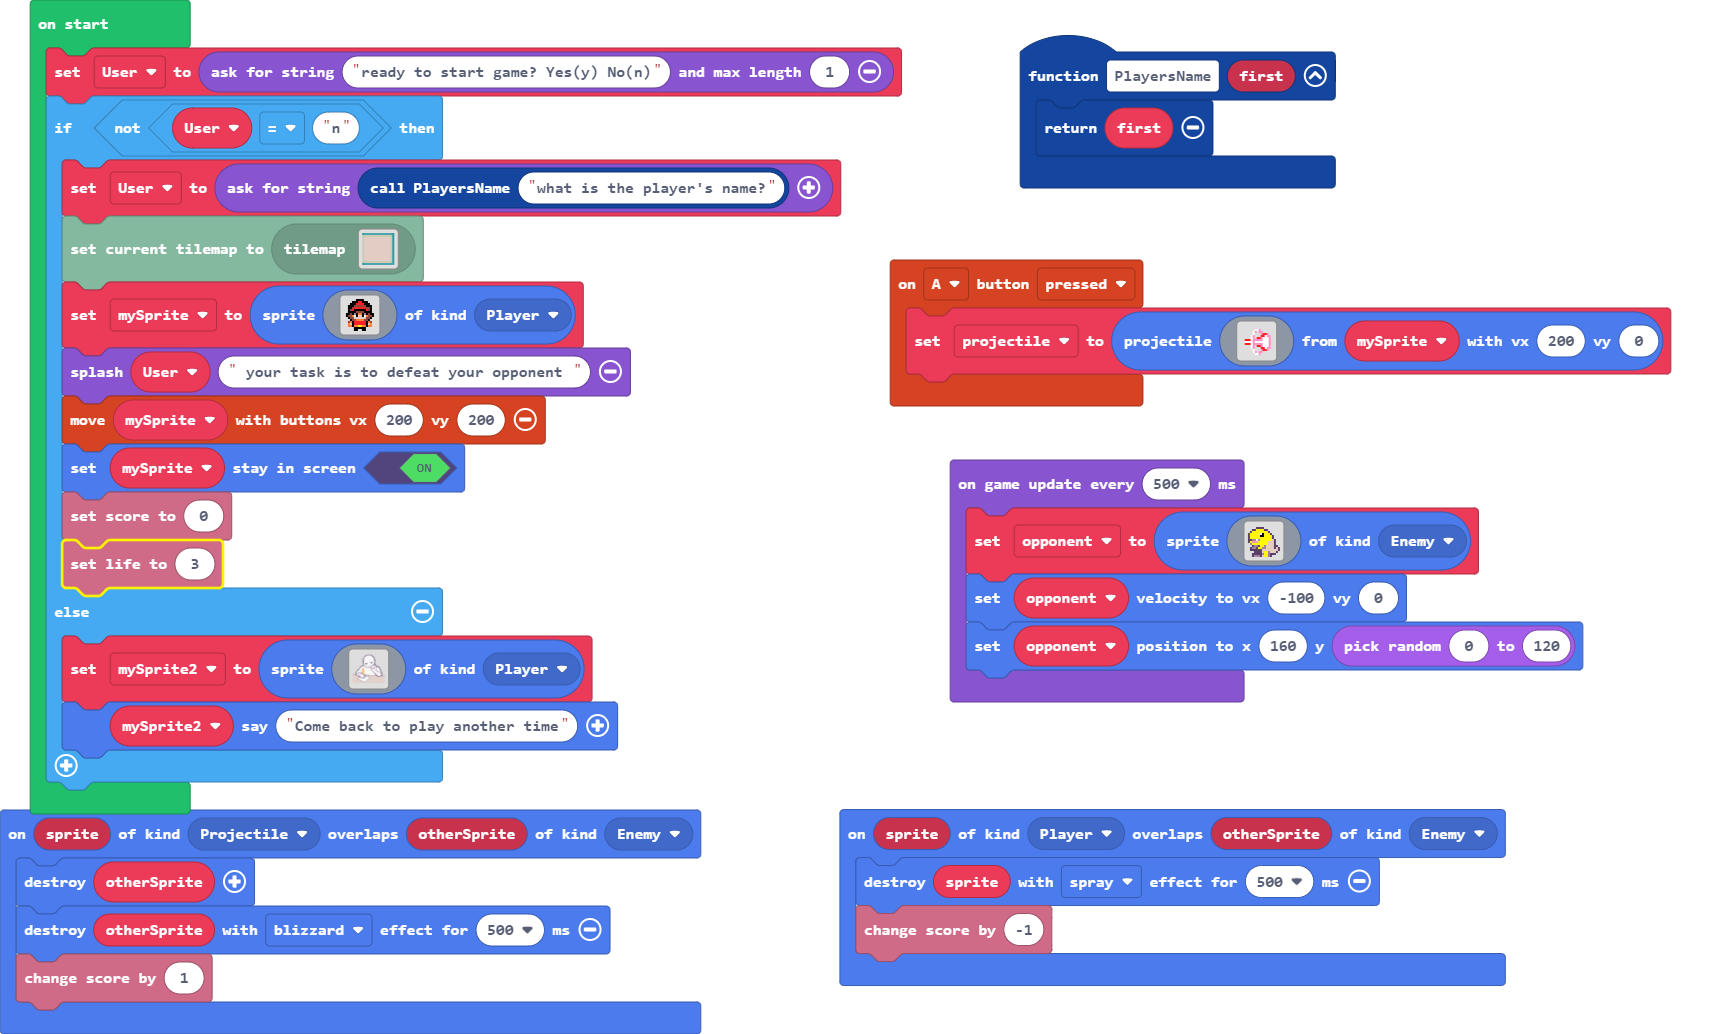
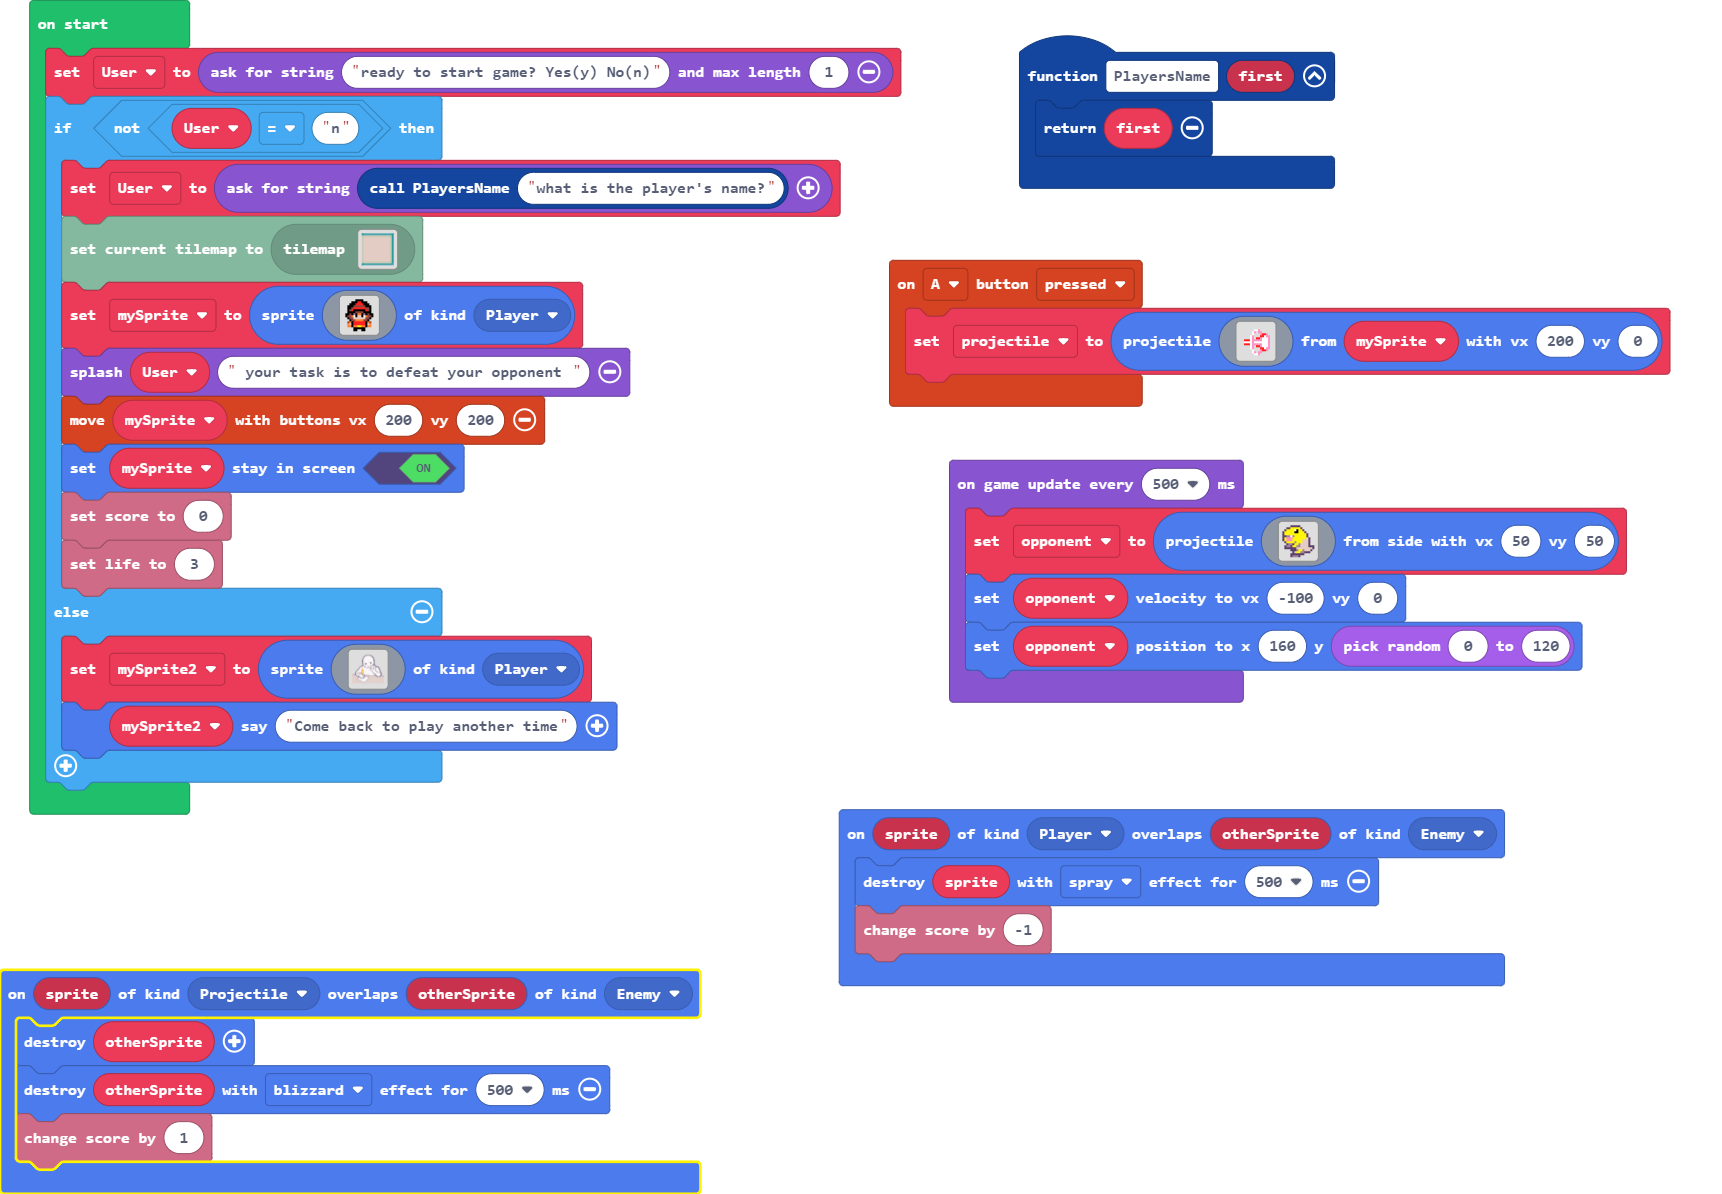
Update main.blocks, main.ts

diff --git a/main.ts b/main.ts
@@ -122,24 +122,24 @@ if (!(User == "n")) {
     mySprite2.sayText("Come back to play another time")
 }
 game.onUpdateInterval(500, function () {
-    opponent = sprites.create(img`
-        . . . . . . . . . . . . . . . . 
-        . . . . c c c c . . . . . . . . 
-        . . c c 5 5 5 5 c c . . . . . . 
-        . c 5 5 5 5 5 5 5 5 c . . . . . 
-        c 5 5 5 5 5 1 f 5 5 5 c . . . . 
-        c 5 5 5 5 5 f f 5 5 5 5 c . . . 
+    opponent = sprites.createProjectileFromSide(img`
+        . . . . c c c c c . . . . . . . 
+        . . c c 5 5 5 5 5 c . . . . . . 
+        . c 5 5 5 5 1 f 5 5 c . . . . . 
+        c 5 5 5 5 5 f f 5 5 5 c . . . . 
         c 5 5 5 5 5 5 5 5 5 5 5 c . . . 
-        c c b b 1 b 5 5 5 5 5 5 d c . . 
+        c c b b 1 b 5 5 5 5 5 5 c . . . 
+        c 5 3 3 3 5 5 5 5 5 5 5 d c . . 
         c 5 3 3 3 5 5 5 5 5 d d d c . . 
-        . b 5 5 5 5 5 5 5 5 d d d c . . 
-        . . c b b c 5 5 b d d d d c c . 
-        . c b b c 5 5 b b d d d d c d c 
+        . c 5 5 5 5 b 5 5 5 d d d c . . 
+        . . c b b c 5 5 b d d d d c . . 
+        . c b b c 5 5 b b d d d d c c c 
         . c c c c c c d d d d d d d d c 
-        . . . c c c c d 5 5 b d d d c . 
-        . . c c c c c b 5 5 b c c c . . 
-        . . c b b b c d 5 5 b c . . . . 
-        `, SpriteKind.Enemy)
+        . . . . c c c b 5 5 b d d d c . 
+        . . . . . c d 5 5 b b c c c . . 
+        . . . . c c c c c c c . . . . . 
+        . . . . c b b b c . . . . . . . 
+        `, 50, 50)
     opponent.setVelocity(-100, 0)
     opponent.setPosition(160, randint(0, 120))
 })
